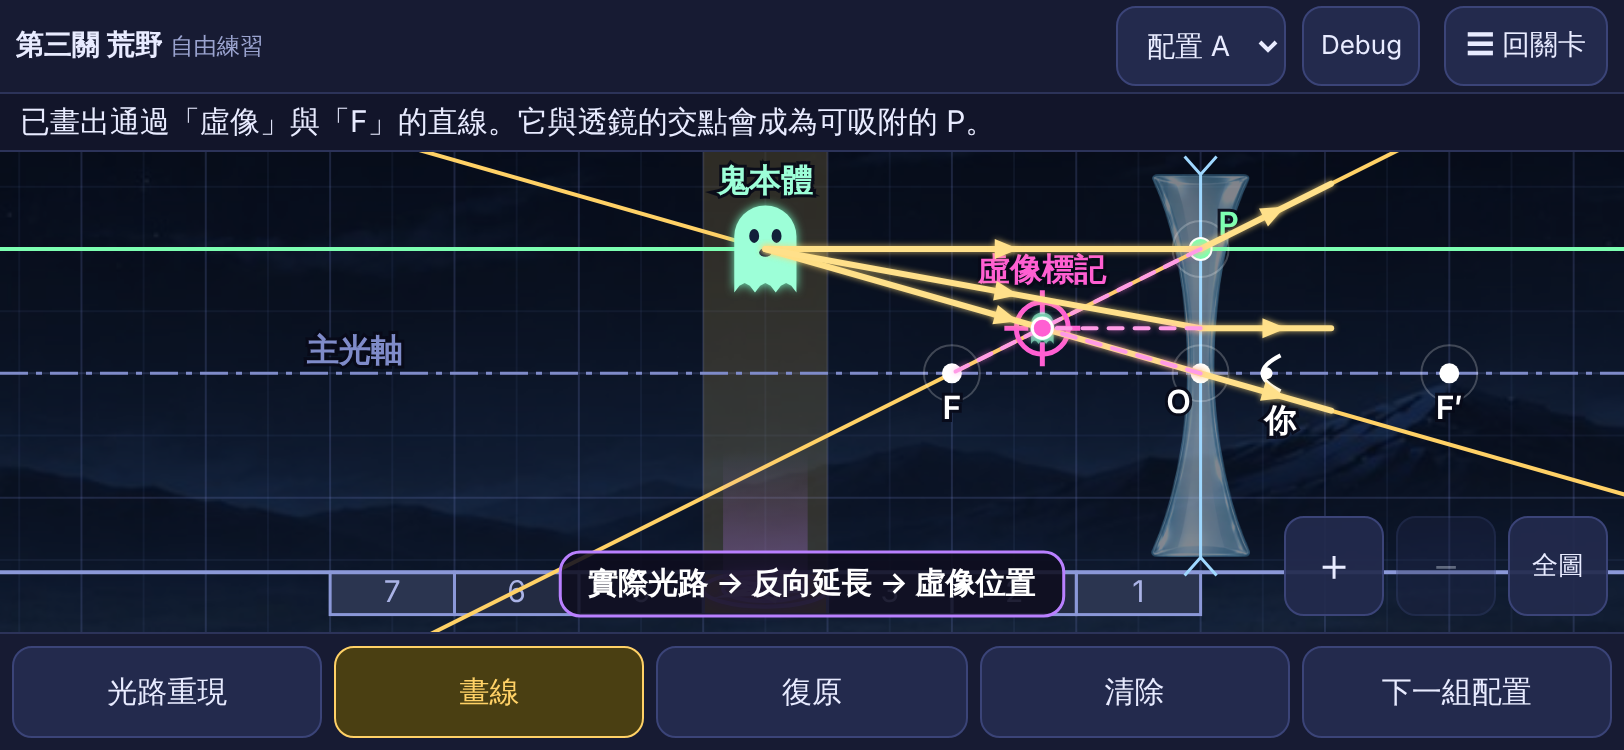
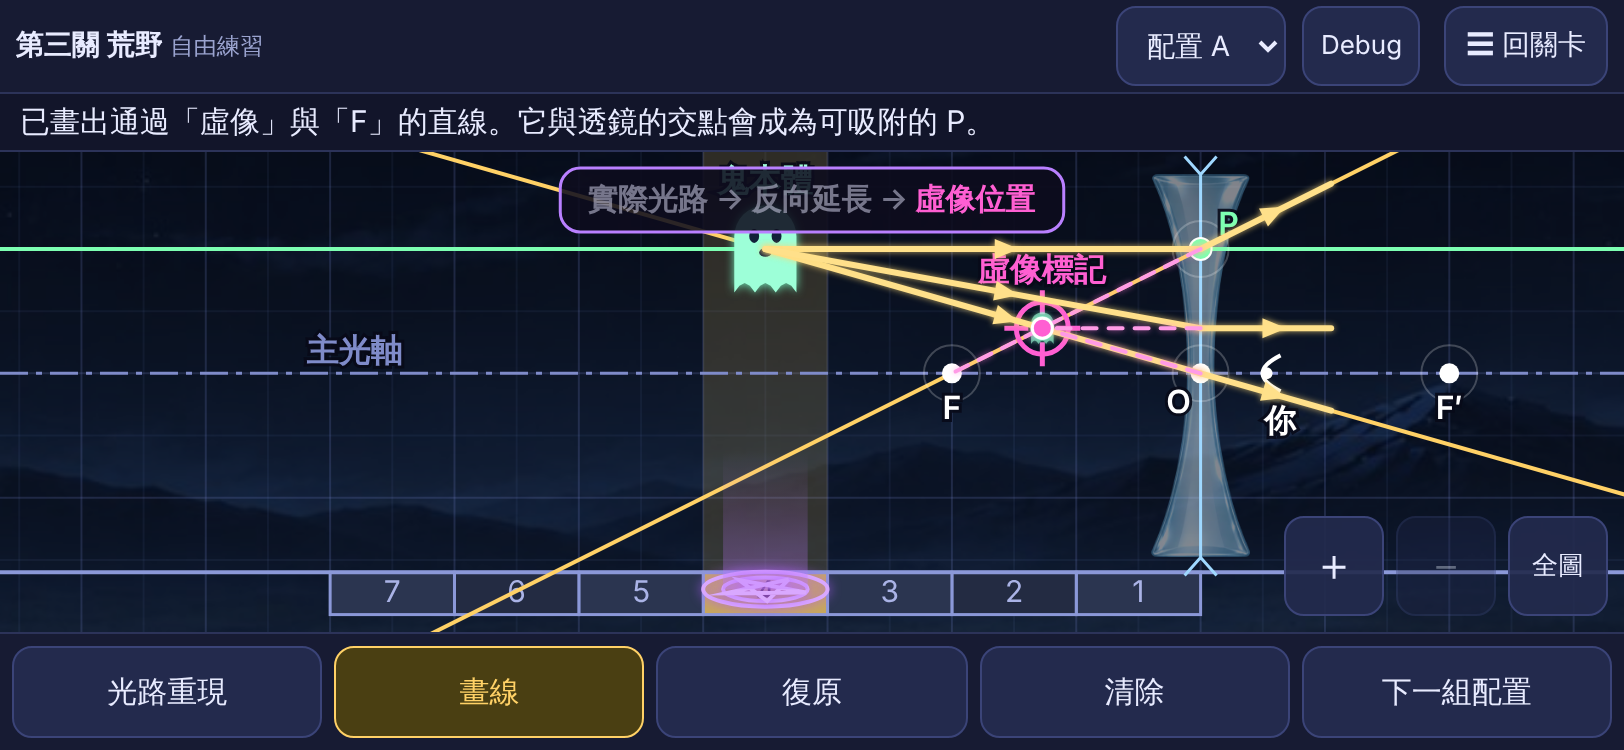
feat(level 3): ray-replay caption stays one sentence, highlighting the current step in its matching color
Claude-Session: https://claude.ai/code/session_01HvGmyUhpsVUQ93yYXkEmSt

Changed region(s): [[0.3387, 0.2147, 0.6466, 0.3373], [0.3387, 0.736, 0.6773, 0.828]]

diff --git a/prototype/shared/ray-replay.js b/prototype/shared/ray-replay.js
@@ -12,6 +12,8 @@
  *   segments: [{ a:{x,y}, b:{x,y}, start, end, kind:'ray'|'extension' }],  // 世界座標
  *   points:   [{ p:{x,y}, start, label }],
  *   captions: [{ start, text }]
+ *     或 [{ start, parts: ['實際光路', ' → ', …], hi: 0 }]：整句不變，第 hi 段是這一刻的重點，用 colors[hi] 的顏色亮起來、其他段變暗
+ *     （使用者 2026-11-20：第三關重現時一直顯示同一句，只換重點）。colors 不給時：重點用白色。
  * }
  */
 (function (root) {
@@ -21,6 +23,8 @@
   var EXT_COLOR = '#ff9be6';        // 反向延長線：虛線
   var POINT_COLOR = '#ff5fd2';
 
+  function captionText(c) { return c.parts ? c.parts.join('') : c.text; }
+  var lastCaption = null; // 最後畫出的說明（測試用）
   function clamp01(v) { return v < 0 ? 0 : v > 1 ? 1 : v; }
   function ease(t) { return t * t * (3 - 2 * t); }
 
@@ -88,8 +92,9 @@
       ctx.strokeStyle = '#fff'; ctx.lineWidth = 1.5; ctx.beginPath(); ctx.arc(q.x, q.y, 5, 0, 7); ctx.stroke();
     }
     // 說明文字：顯示目前階段的那一句
-    var text = null;
-    for (i = 0; i < (spec.captions || []).length; i++) if (tau >= spec.captions[i].start) text = spec.captions[i].text;
+    var cap = null;
+    for (i = 0; i < (spec.captions || []).length; i++) if (tau >= spec.captions[i].start) cap = spec.captions[i];
+    var text = cap ? captionText(cap) : null;
     if (text && area) {
       ctx.font = '600 15px system-ui, -apple-system, "Noto Sans TC", "PingFang TC", "Microsoft JhengHei", sans-serif';
       ctx.textAlign = 'center'; ctx.textBaseline = 'middle';
@@ -98,7 +103,7 @@
       // 說明框預設在上方；若會蓋到光線（例如鬼在高處、平行光線貼近畫面上緣），改放下方。
       // 用整段動畫裡最寬的那一句、全部的光線來判斷，位置才不會播到一半跳動。
       var maxW = 0;
-      for (i = 0; i < spec.captions.length; i++) maxW = Math.max(maxW, ctx.measureText(spec.captions[i].text).width + 28);
+      for (i = 0; i < spec.captions.length; i++) maxW = Math.max(maxW, ctx.measureText(captionText(spec.captions[i])).width + 28);
       maxW = Math.min(area.w - 16, maxW);
       var cyBottom = area.y + area.h - th / 2 - 8;
       if (boxHitsRays(w2s, spec, cx - maxW / 2, cy - th / 2, maxW, th) && !boxHitsRays(w2s, spec, cx - maxW / 2, cyBottom - th / 2, maxW, th)) cy = cyBottom;
@@ -106,10 +111,24 @@
       ctx.beginPath();
       if (ctx.roundRect) ctx.roundRect(cx - tw / 2, cy - th / 2, tw, th, 10); else ctx.rect(cx - tw / 2, cy - th / 2, tw, th);
       ctx.fill(); ctx.stroke();
-      ctx.fillStyle = '#fff'; ctx.fillText(text, cx, cy, tw - 16);
+      if (!cap.parts) { ctx.fillStyle = '#fff'; ctx.fillText(text, cx, cy, tw - 16); }
+      else {
+        // 分段畫：重點那段用它的顏色、其他段暗一點；整句放不下時水平壓縮（和 fillText 的 maxWidth 一樣）
+        var full = ctx.measureText(text).width, sx = Math.min(1, (tw - 16) / full), x = -full / 2;
+        ctx.save(); ctx.translate(cx, cy); ctx.scale(sx, 1); ctx.textAlign = 'left';
+        for (i = 0; i < cap.parts.length; i++) {
+          var on = i === cap.hi;
+          ctx.fillStyle = on ? ((cap.colors && cap.colors[i]) || '#fff') : 'rgba(205,205,230,.55)';
+          ctx.fillText(cap.parts[i], x, 0);
+          x += ctx.measureText(cap.parts[i]).width;
+        }
+        ctx.restore();
+      }
+      lastCaption = cap.parts ? { text: text, hi: cap.parts[cap.hi] } : { text: text, hi: null };
     }
     ctx.restore();
   }
 
-  root.RayReplay = { draw: draw, RAY_COLOR: RAY_COLOR, EXT_COLOR: EXT_COLOR };
+  root.RayReplay = { draw: draw, RAY_COLOR: RAY_COLOR, EXT_COLOR: EXT_COLOR, POINT_COLOR: POINT_COLOR,
+    lastCaption: function () { return lastCaption; } };
 })(typeof self !== 'undefined' ? self : this);

diff --git a/prototype/concave-lens/app.js b/prototype/concave-lens/app.js
@@ -737,12 +737,12 @@
         { a: Q, b: { x: c.image.x, y: Q.y }, start: 1.9, end: 2.9, kind: 'extension' }
       ],
       points: [{ p: c.image, start: 2.9 }],
-      captions: [
-        { start: 0, text: '鬼身上發出三條光線' },
-        { start: 1.0, text: '經過凹透鏡：平行的發散，過光心的直走，對準 F′ 的變平行' },
-        { start: 1.9, text: '把折射後的光線反向延長（虛線）' },
-        { start: 2.9, text: '實際光路 → 反向延長 → 虛像位置' }
-      ]
+      // 使用者 2026-11-20：整段一直顯示同一句，只換重點（重點的顏色＝畫面上對應的線或點）
+      captions: [0, 1.0, 1.9, 2.9].map(function (t, i) {
+        var RR = window.RayReplay;
+        return { start: t, hi: [0, 0, 2, 4][i], parts: ['實際光路', ' → ', '反向延長', ' → ', '虛像位置'],
+          colors: [RR.RAY_COLOR, null, RR.EXT_COLOR, null, RR.POINT_COLOR] };
+      })
     };
   }
   function replayRunning() { return !!state.replay && (performance.now() - state.replay.t0) / 1000 < replaySpec().duration + 0.3; }

diff --git a/tests/e2e-concave-lens.js b/tests/e2e-concave-lens.js
@@ -546,6 +546,14 @@ async function run(profile, browser) {
     s = await st();
     ok(s.solved && await countColor(GHOST) > 20, T('封印作圖交點所在格 → 成功並顯形'));
     if (first) await shot('8-seal-success');
+    // 光路重現的說明：整段同一句，重點依序是 實際光路 → 反向延長 → 虛像位置（使用者 2026-11-20）
+    const caps = await page.evaluate(() => {
+      const H = window.__proto, out = [];
+      for (const t of [0.3, 1.3, 2.2, 3.2]) { H.state.replay = { t0: performance.now() - t * 1000 }; H.render(); out.push(window.RayReplay.lastCaption()); }
+      return out;
+    });
+    ok(caps.every((c) => c && c.text === '實際光路 → 反向延長 → 虛像位置') && caps.map((c) => c.hi).join('/') === '實際光路/實際光路/反向延長/虛像位置',
+      T('光路重現說明：同一句，重點依序換'), caps.map((c) => c && c.hi).join('/'));
 
     // C3：抓到鬼之後不能取消、也不能改選別格
     {

diff --git a/PROJECT.md b/PROJECT.md
@@ -28,6 +28,7 @@
 - 平面鏡先雙鏡，之後可由鬼打碎一面鏡來移除鷹架。
 - 凸透鏡採長走廊／長房間 + 投影牆 + 可移動透鏡。
 - 凹透鏡採「荒野探索無格子 → 標記虛像 → 90° 側視分析有格子」。
+- 使用者 2026-11-20：第三關**光路重現的說明一直是同一句「實際光路 → 反向延長 → 虛像位置」**，只換重點那段的顏色：0～1.9 秒「實際光路」（黃，同實線光線）、1.9 秒「反向延長」（粉紅，同虛線）、2.9 秒「虛像位置」（洋紅，同像的標示點），其他段變暗（`concave-lens/app.js` `replaySpec` 的 captions、`shared/ray-replay.js` 支援 `parts`／`hi`／`colors`）。第二關的重現說明還是舊的一句一句，要不要比照等使用者決定。
 - 使用者 2026-11-20：第二、三關**封印失敗後自動切回「畫線」**；第二關「看布幕／看透鏡」**跟著布幕（透鏡）那一欄**（在那一欄正下方、寬度對齊）、透鏡畫面放大；第一關正面鏡裡映出的碎鏡子用背景圖的碎玻璃照鏡射貼（細節見文末交接點「三件事」）。
 - 凹透鏡內不能只縮小鬼，必須重映射整個透鏡內場景。
 - 暫不加入凹面鏡。
